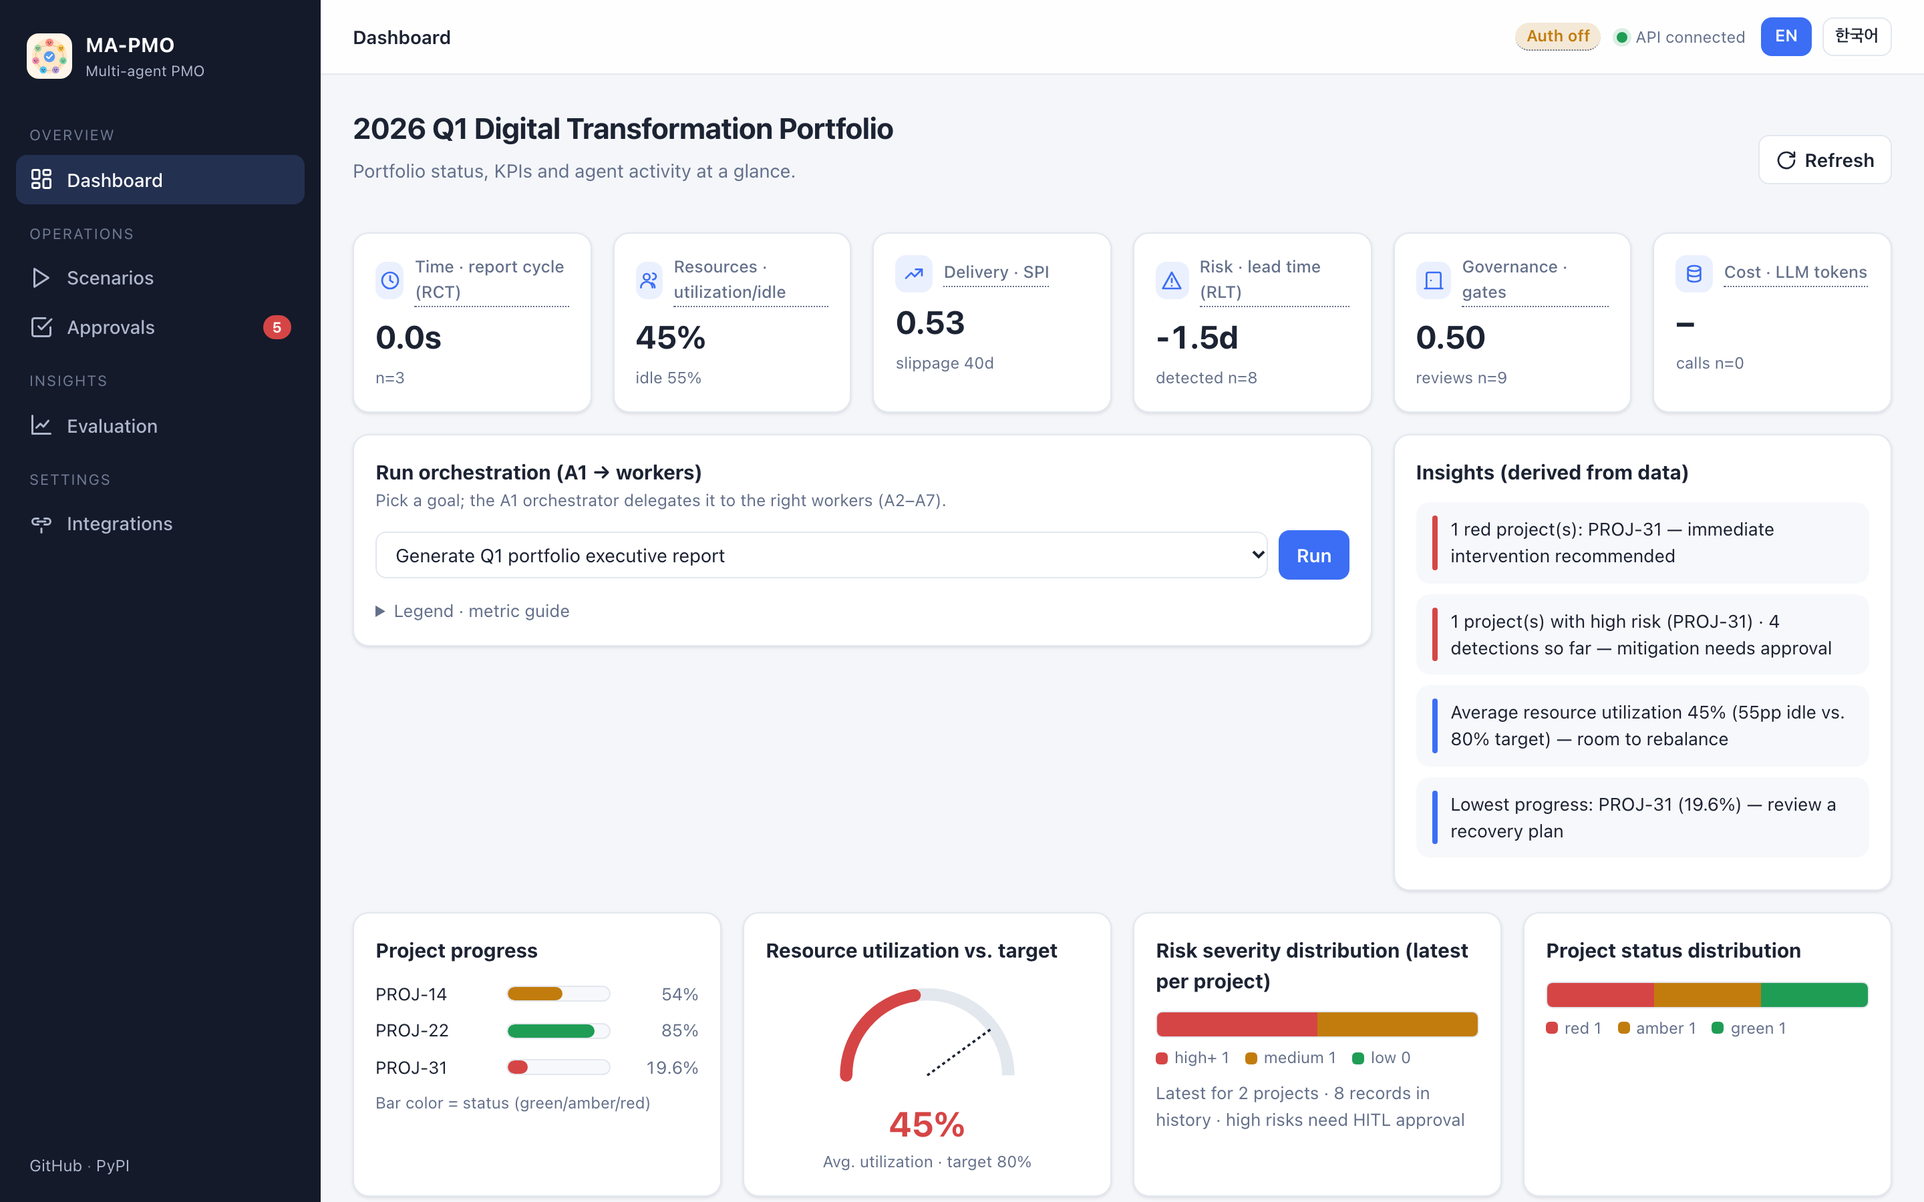
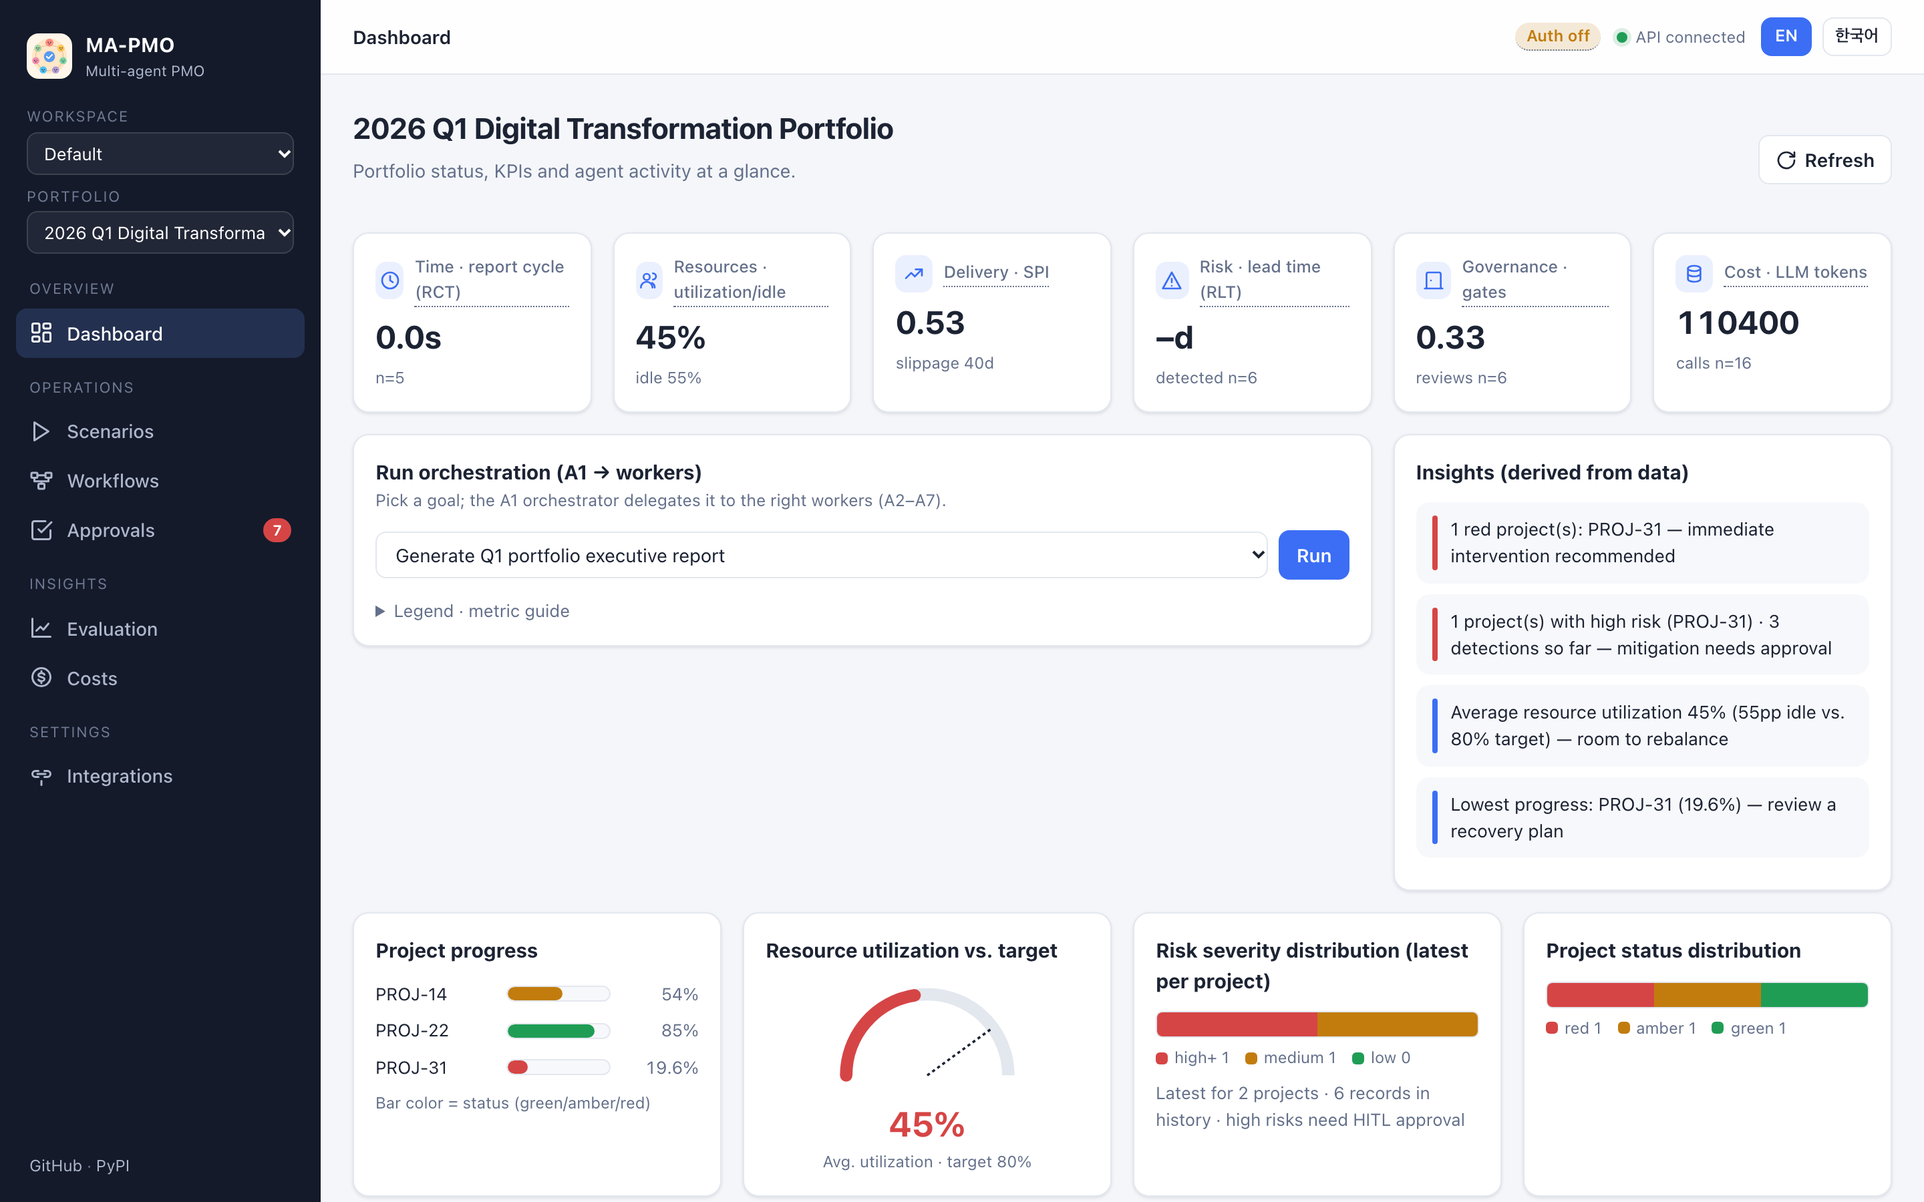
Release 0.6.0
Regression run, new-feature screenshots in the READMEs, and two dashboard fixes found while
taking them: times were read as local instead of UTC, and the phone top bar was crowded.

diff --git a/docs/capture-screenshots.js b/docs/capture-screenshots.js
@@ -1,11 +1,13 @@
 // Capture README screenshots and demo-GIF frames from a locally running dashboard.
 //
-// Prerequisites: API and dashboard running with demo data (`make db-init`, `make api`, `make web`),
+// Prerequisites: API and dashboard running with demo data (`make db-init`, then
+// `python docs/capture_seed.py` for sample spend and recommendations, `make api`, `make web`),
 // Google Chrome, and `npm install playwright-core` in a scratch folder.
-// usage: node capture-screenshots.js <outDir> [--gif] [--base http://localhost:3000]
-// Writes <page>-<en|ko>.png for dashboard, scenarios, scenario-trace, approvals, evaluation and
-// integrations (1440x900 @2x, light theme). With --gif, frames go to <outDir>/frames named
-// NNN_<hold>.png, where <hold> is the frame duration in ticks.
+// usage: node capture-screenshots.js <outDir> [--gif] [--base http://localhost:3000] [--api http://localhost:8000]
+// Writes <page>-<en|ko>.png for dashboard, scenarios, scenario-trace, approvals, evaluation,
+// integrations, workflows (with a run), workflow-editor, costs and recommendations
+// (1440x900 @2x, light theme). With --gif, frames go to <outDir>/frames named NNN_<hold>.png,
+// where <hold> is the frame duration in ticks.
 const { chromium } = require("playwright-core");
 const fs = require("fs");
 const path = require("path");
@@ -14,6 +16,7 @@ const args = process.argv.slice(2);
 const outDir = args[0];
 const gif = args.includes("--gif");
 const BASE = args.includes("--base") ? args[args.indexOf("--base") + 1] : "http://localhost:3000";
+const API = args.includes("--api") ? args[args.indexOf("--api") + 1] : "http://localhost:8000";
 if (!outDir) {
   console.error("usage: node capture-screenshots.js <outDir> [--gif] [--base URL]");
   process.exit(2);
@@ -27,11 +30,17 @@ fs.mkdirSync(outDir, { recursive: true });
   const ctx = await browser.newContext({ viewport: { width: 1440, height: 900 }, deviceScaleFactor: 2, colorScheme: "light" });
   const page = await ctx.newPage();
   const go = async (route, lang) => {
-    await page.goto(`${BASE}${route}?lang=${lang}`);
+    await page.goto(`${BASE}${route}${route.includes("?") ? "&" : "?"}lang=${lang}`);
     await page.waitForLoadState("networkidle");
     await page.waitForTimeout(600);
   };
   const shot = (name) => page.screenshot({ path: path.join(outDir, name) });
+  const top = async (locator) => {  // put a section at the top of the screen
+    await locator.first().evaluate((el) => window.scrollTo(0, el.getBoundingClientRect().top + window.scrollY - 72));
+    await page.waitForTimeout(400);
+  };
+  const latest = await (await fetch(`${API}/runs?workflow=risk_escalation&limit=1`)).json();
+  const run = (Array.isArray(latest) ? latest : latest.runs)[0].run_id;
 
   for (const lang of ["en", "ko"]) {
     await go("/", lang); await shot(`dashboard-${lang}.png`);
@@ -43,10 +52,18 @@ fs.mkdirSync(outDir, { recursive: true });
     await go("/approvals", lang); await shot(`approvals-${lang}.png`);
     await go("/evaluation", lang); await shot(`evaluation-${lang}.png`);
     await go("/integrations", lang); await shot(`integrations-${lang}.png`);
+    await go(`/workflows?id=risk_escalation&run=${run}`, lang); await shot(`workflows-${lang}.png`);
+    await go("/workflows?id=risk_escalation", lang);
+    await page.locator(".wf-edit-btn", { hasText: lang === "ko" ? "편집" : "Edit" }).first().click();
+    await page.waitForTimeout(500); await top(page.locator(".wf-edit-only")); await shot(`workflow-editor-${lang}.png`);
+    await go("/costs", lang); await shot(`costs-${lang}.png`);
+    await top(page.locator(".card", { hasText: lang === "ko" ? "모델 추천" : "Model recommendations" }));
+    await shot(`recommendations-${lang}.png`);
   }
   await ctx.close();
 
-  // 2) GIF frames (1x scale, smaller viewport): dashboard → scenario run → approve → evaluation → Korean
+  // 2) GIF frames (1x scale, smaller viewport): dashboard → scenario run → its workflow → approve →
+  //    costs → evaluation → Korean
   if (gif) {
     const framesDir = path.join(outDir, "frames");
     fs.mkdirSync(framesDir, { recursive: true });
@@ -73,9 +90,13 @@ fs.mkdirSync(outDir, { recursive: true });
     await p.locator(".card", { hasText: "Risk early warning" }).locator("button").click();
     await p.waitForSelector("text=Insight —"); await p.waitForTimeout(900);
     await snap(10); await scroll(await p.evaluate(() => window.scrollY + 480), 4);
+    const ran = await (await fetch(`${API}/runs?workflow=risk_rebalance&limit=1`)).json();
+    await p.goto(`${BASE}/workflows?id=risk_rebalance&run=${(Array.isArray(ran) ? ran : ran.runs)[0].run_id}&lang=en`);
+    await p.waitForLoadState("networkidle"); await p.waitForTimeout(800); await snap(12);
     await nav("Approvals"); await snap(10);
     await p.locator("tbody tr").first().locator("button", { hasText: "Approve" }).click(); await p.waitForTimeout(700);
     await snap(8);
+    await nav("Costs", 700); await snap(12);
     await nav("Evaluation", 700); await snap(14);
     await p.locator(".topbar button", { hasText: "한국어" }).click();
     await p.waitForLoadState("networkidle"); await p.waitForTimeout(900);

diff --git a/apps/web/app/workflows/page.tsx b/apps/web/app/workflows/page.tsx
@@ -6,9 +6,10 @@
 import { useEffect, useRef, useState } from "react";
 import { api, problemsOf } from "../lib/api";
 import { useI18n } from "../lib/i18n";
+import { when } from "../lib/time";
 import { Card, PageHeader } from "../components/shell";
 import {
-  Graph, POLL_MS, params, stepState, when,
+  Graph, POLL_MS, params, stepState,
   type RunSummary, type Version, type Workflow,
 } from "./graph";
 import { Editor } from "./editor";
@@ -185,7 +186,7 @@ export default function Workflows() {
                     <option value="">{w.noRun}</option>
                     {runs.map((r) => (
                       <option key={r.run_id} value={r.run_id}>
-                        {when(r.started_at)}{r.workflow_version ? ` · v${r.workflow_version}` : ""} · {w.status[r.status] ?? r.status}
+                        {when(r.started_at, lang)}{r.workflow_version ? ` · v${r.workflow_version}` : ""} · {w.status[r.status] ?? r.status}
                       </option>
                     ))}
                   </select>
@@ -206,7 +207,7 @@ export default function Workflows() {
               {overlay?.run && (
                 <div className="wf-runbar" aria-live="polite">
                   <span className={`badge ${w.badge[overlay.run.status] ?? ""}`}>{w.status[overlay.run.status] ?? overlay.run.status}</span>
-                  <span className="muted">{overlay.run.scope} · {when(overlay.run.started_at)} · <code>{overlay.run.run_id}</code></span>
+                  <span className="muted">{overlay.run.scope} · {when(overlay.run.started_at, lang)} · <code>{overlay.run.run_id}</code></span>
                   {overlay.run.status === "waiting_approval" && <a href="/approvals">{w.toApprovals}</a>}
                   {overlay.run.budget_fallback && (
                     <a className="badge amber" href="/costs">{w.budgetFallback(overlay.run.budget_fallback.agent)}</a>
@@ -271,8 +272,8 @@ export default function Workflows() {
                           <td>v{v.version}{v.in_use && <span className="badge green" style={{ marginLeft: 6 }}>{w.inUse}</span>}</td>
                           <td>{w.versionStatus[v.status] ?? v.status}</td>
                           <td>{v.published_by
-                            ? `${w.publishedBy(v.published_by)} · ${when(v.published_at ?? undefined)}`
-                            : v.created_by ? `${w.draftedBy(v.created_by)} · ${when(v.created_at ?? undefined)}` : "–"}</td>
+                            ? `${w.publishedBy(v.published_by)} · ${when(v.published_at, lang)}`
+                            : v.created_by ? `${w.draftedBy(v.created_by)} · ${when(v.created_at, lang)}` : "–"}</td>
                           <td style={{ whiteSpace: "normal" }}>{v.note || <span className="muted">–</span>}</td>
                           <td><div className="row" style={{ flexWrap: "nowrap" }}>
                             <button className="ghost sm" onClick={() => view(v)}

diff --git a/apps/web/app/lib/messages.ts b/apps/web/app/lib/messages.ts
@@ -588,12 +588,12 @@ const ko: Messages = {
     metric: { cost: "단계 비용 (실행당 USD)", valid_output: "올바른 출력 비율", risk_accuracy: "리스크 판정 정확도" } as Record<string, string>,
     baseline: "현재", candidate: "빠른 모델", delta: "변화", ci: "95% 구간",
     approve: "승인 → 초안", reject: "거절",
-    draftMade: (v: number) => `초안 v${v}을(를) 만들었습니다. 워크플로 화면에서 게시하세요.`,
+    draftMade: (v: number) => `새 초안(v${v})을 만들었습니다. 워크플로 화면에서 게시하세요.`,
     noRecs: "아직 재생한 적이 없습니다.",
     cheaper: (p: number) => `${p}% 저렴`,
     reason: (code: string, metric: string, tol: number) =>
       code === "no_output" ? "비교할 LLM 출력이 없습니다. 이 단계가 LLM을 호출하지 않았거나 모든 호출이 대체 방식으로 처리되었습니다(API 키가 있나요?)."
-        : code === "quality_drop" ? `${metric}이(가) ${tol}%보다 더 떨어질 수 있습니다.`
+        : code === "quality_drop" ? `${metric}: ${tol}%보다 더 떨어질 수 있습니다.`
           : code === "no_saving" ? "데이터로 확인되는 절감이 없습니다."
             : `품질이 ${tol}% 안에서 유지되고 이 단계의 비용이 줄어듭니다.`,
     stoppedByBudget: "재생 중 예산 때문에 일부 LLM 호출이 멈췄습니다.",

diff --git a/apps/web/app/globals.css b/apps/web/app/globals.css
@@ -104,7 +104,8 @@ code { font-family: ui-monospace, SFMono-Regular, Menlo, monospace; font-size: 1
   background: color-mix(in srgb, var(--surface) 88%, transparent);
   backdrop-filter: blur(8px); border-bottom: 1px solid var(--border);
 }
-.topbar .crumb { font-weight: 600; }
+.topbar .crumb { font-weight: 600; min-width: 0; overflow: hidden; text-overflow: ellipsis; white-space: nowrap; }
+.topbar > :not(.crumb):not(.spacer) { flex: none; }
 .topbar .spacer { flex: 1; }
 .status { display: inline-flex; align-items: center; gap: 6px; font-size: 12px; color: var(--muted); }
 .status i { width: 8px; height: 8px; border-radius: 50%; background: var(--muted); display: inline-block; }
@@ -126,6 +127,13 @@ code { font-family: ui-monospace, SFMono-Regular, Menlo, monospace; font-size: 1
   .backdrop { display: block; }
   .topbar { padding: 0 16px; }
   .content { padding: 16px; }
+}
+@media (max-width: 560px) {
+  /* a phone has room for the page name, the dot and the language: the rest stays readable */
+  .topbar { gap: 8px; }
+  .status .status-label {
+    position: absolute; width: 1px; height: 1px; overflow: hidden; clip: rect(0 0 0 0); white-space: nowrap;
+  }
 }
 
 /* ── page header ── */

diff --git a/apps/web/app/approvals/page.tsx b/apps/web/app/approvals/page.tsx
@@ -2,6 +2,7 @@
 import { Fragment, useEffect, useState } from "react";
 import { api } from "../lib/api";
 import { useI18n } from "../lib/i18n";
+import { when } from "../lib/time";
 import type { Messages } from "../lib/messages";
 import { Card, PageHeader, Stat } from "../components/shell";
 import { Icon } from "../components/icons";
@@ -88,7 +89,7 @@ export default function Approvals() {
                     <Fragment key={it.approval_id}>
                       <tr>
                         <td className="muted">{it.approval_id}</td>
-                        <td><span className="badge accent">{it.sender} → A1</span><div className="muted">{it.requested_at?.slice(0, 16).replace("T", " ")}</div></td>
+                        <td><span className="badge accent">{it.sender} → A1</span><div className="muted" style={{ whiteSpace: "nowrap" }}>{when(it.requested_at, lang)}</div></td>
                         <td>
                           <b>{s.title}</b>
                           <div className="muted">{s.lines.filter(Boolean).join(" · ")}</div>

diff --git a/apps/web/app/costs/recommendations.tsx b/apps/web/app/costs/recommendations.tsx
@@ -28,7 +28,7 @@ export function Recommendations() {
   const [recs, setRecs] = useState<Rec[]>([]);
   const [flows, setFlows] = useState<Flow[]>([]);
   const [flow, setFlow] = useState("");
-  const [steps, setSteps] = useState<{ id: string; agent: string; model_tier: string }[]>([]);
+  const [steps, setSteps] = useState<{ id: string; agent: string; agent_name: string; model_tier: string }[]>([]);
   const [step, setStep] = useState("");
   const [repeat, setRepeat] = useState(3);
   const [busy, setBusy] = useState("");
@@ -74,7 +74,7 @@ export function Recommendations() {
         </label>
         <label><span>{c.step}</span>
           <select className="input" value={step} onChange={(e) => setStep(e.target.value)}>
-            {steps.map((s) => <option key={s.id} value={s.id}>{s.id} · {s.agent}</option>)}
+            {steps.map((s) => <option key={s.id} value={s.id}>{s.id === s.agent ? s.id : `${s.id} (${s.agent})`} · {s.agent_name}</option>)}
           </select>
         </label>
         <label><span>{c.repeat}</span>

diff --git a/apps/web/app/costs/page.tsx b/apps/web/app/costs/page.tsx
@@ -4,6 +4,7 @@
 import { useEffect, useState } from "react";
 import { api, problemsOf } from "../lib/api";
 import { useI18n } from "../lib/i18n";
+import { when } from "../lib/time";
 import { Card, PageHeader, Stat } from "../components/shell";
 import { Icon } from "../components/icons";
 import { Recommendations } from "./recommendations";
@@ -172,7 +173,7 @@ export default function Costs() {
               <tbody>
                 {fellBack.slice(0, 20).map((r) => (
                   <tr key={r.run_id}>
-                    <td>{new Date(r.started_at).toLocaleString()}</td>
+                    <td>{when(r.started_at, lang)}</td>
                     <td><a href={`/workflows?id=${encodeURIComponent(r.workflow)}&run=${encodeURIComponent(r.run_id)}`}>{r.workflow}</a></td>
                     <td style={{ whiteSpace: "normal" }}>{c.fellBackRow(r.budget_fallback!.kind, r.budget_fallback!.agent, r.budget_fallback!.step)}</td>
                   </tr>

diff --git a/apps/web/app/components/shell.tsx b/apps/web/app/components/shell.tsx
@@ -125,8 +125,9 @@ export function Shell({ children }: { children: ReactNode }) {
           {me && (me.auth_enabled
             ? <span className="badge accent">{me.subject}</span>
             : <span className="badge amber tip" data-tip={t.shell.authOffTip}>{t.shell.authOff}</span>)}
-          <span className={`status ${apiUp === null ? "" : apiUp ? "up" : "down"}`}>
-            <i />{apiUp === false ? t.shell.apiDown : t.shell.apiUp}
+          <span className={`status ${apiUp === null ? "" : apiUp ? "up" : "down"}`}
+            title={apiUp === false ? t.shell.apiDown : t.shell.apiUp}>
+            <i /><span className="status-label">{apiUp === false ? t.shell.apiDown : t.shell.apiUp}</span>
           </span>
           <div className="row" role="group" aria-label={t.langLabel}>
             {LANGS.map((l) => (

diff --git a/apps/web/app/lib/time.ts b/apps/web/app/lib/time.ts
@@ -1,0 +1,8 @@
+// The API sends times in UTC, some without a zone ("2026-11-08T00:50:57"). Read those as UTC, not
+// as local time, and show them in the reader's time zone in the UI language.
+export function when(iso?: string | null, lang = "en"): string {
+  if (!iso) return "";
+  const zoned = /(Z|[+-]\d\d:?\d\d)$/i.test(iso) ? iso : `${iso}Z`;
+  return new Date(zoned).toLocaleString(lang === "ko" ? "ko-KR" : "en-US",
+    { dateStyle: "medium", timeStyle: "short" });
+}

diff --git a/apps/web/app/workflows/graph.tsx b/apps/web/app/workflows/graph.tsx
@@ -33,7 +33,6 @@ export const POLL_MS = 2000;
 // pause has finished that step; its approvals are only waiting in the queue.
 export const stepState = (r: StepRun | undefined, run: string | undefined) =>
   (!r ? "" : r.pending_approvals > 0 && run === "waiting_approval" ? "waiting_approval" : r.status);
-export const when = (iso?: string) => (iso ? new Date(iso).toLocaleString() : "");
 
 const W = 188, H = 60, GAP_X = 64, GAP_Y = 16, PAD = 10;
 

diff --git a/docs/capture_seed.py b/docs/capture_seed.py
@@ -1,0 +1,69 @@
+"""Sample history for the README screenshots: runs, LLM spend, budgets and recommendations.
+
+The screenshots of the Costs page and the workflow views need some history, and the demo data
+has none (without an API key nothing is spent). This script makes it with a stand-in provider:
+it answers risk ratings the way a model would and reports token counts, so every figure on
+those pages comes from the real ledger, budgets and replay code, but the spend is sample data.
+No request leaves the machine.
+
+usage (on a fresh demo database, before starting the API):
+    DB_URL=sqlite:///capture.db ma-pmo init-db
+    DB_URL=sqlite:///capture.db python docs/capture_seed.py
+"""
+from __future__ import annotations
+
+import json
+import re
+
+import litellm
+
+from ma_pmo.core import budgets, llm, replay
+from ma_pmo.core.config import get_settings
+from ma_pmo.core.scenarios import run_scenario
+from ma_pmo.db import workspaces
+
+FAST = get_settings().llm_model_fast
+LABELS = {"PROJ-14": "medium", "PROJ-22": "low", "PROJ-31": "high"}
+fast_mode = {"answer": "good"}  # "good" or "wrong": how the fast model rates risks
+
+
+def completion(**kw):
+    """Rate risks like a model would; anything else gets an answer the schema rejects."""
+    found = re.search(r"Project: (\S+)", kw["messages"][-1]["content"])
+    if found is None:
+        content = "{}"  # the agent falls back to its deterministic output, as it does offline
+    else:
+        project = found.group(1)
+        severity = LABELS.get(project, "low")
+        if kw["model"] == FAST and fast_mode["answer"] == "wrong":
+            severity = "low" if severity != "low" else "high"
+        content = json.dumps({"project_id": project, "signal": "schedule slack",
+                              "severity": severity, "mitigation": "re-plan the critical path",
+                              "rationale": "float is shrinking"})
+    response = litellm.ModelResponse(model=kw["model"], usage=litellm.Usage(
+        prompt_tokens=6000, completion_tokens=900, total_tokens=6900))
+    response.choices[0].message.content = content
+    return response
+
+
+def main() -> None:
+    llm.litellm.completion = completion
+    if not workspaces.exists("research"):
+        workspaces.create("research", "Research lab")
+    for scenario in ("weekly_status", "risk_escalation", "executive_briefing",
+                     "risk_escalation", "weekly_status"):
+        run_scenario(scenario)
+    budgets.set_budget("month", 8.0, 10.0, "admin")
+    budgets.set_budget("run", None, 0.5, "admin")
+
+    fast_mode["answer"] = "wrong"
+    replay.replay("risk_escalation", "A4", repeat=3, by="operator")
+    fast_mode["answer"] = "good"
+    approved = replay.replay("risk_escalation", "A4", repeat=3, by="operator")
+    replay.decide(approved["id"], "approved", "approver")
+    replay.replay("executive_briefing", "A4", repeat=3, by="operator")
+    print("seeded: runs, spend, budgets and", len(replay.recommendations()), "recommendations")
+
+
+if __name__ == "__main__":
+    main()

diff --git a/ma_pmo/core/replay.py b/ma_pmo/core/replay.py
@@ -125,7 +125,7 @@ def reason_text(reason: dict) -> str:
                   "대체 방식으로 처리되었습니다(API 키가 있나요?)")
     if code == "quality_drop":
         return tr(f"{reason['metric']} may drop by more than {tol:.0%}",
-                  f"{reason['metric']}이(가) {tol:.0%}보다 더 떨어질 수 있습니다")
+                  f"{reason['metric']}: {tol:.0%}보다 더 떨어질 수 있습니다")
     if code == "no_saving":
         return tr("no saving that the data can show", "데이터로 확인되는 절감이 없습니다")
     return tr(f"quality holds within {tol:.0%} and the step costs less",
